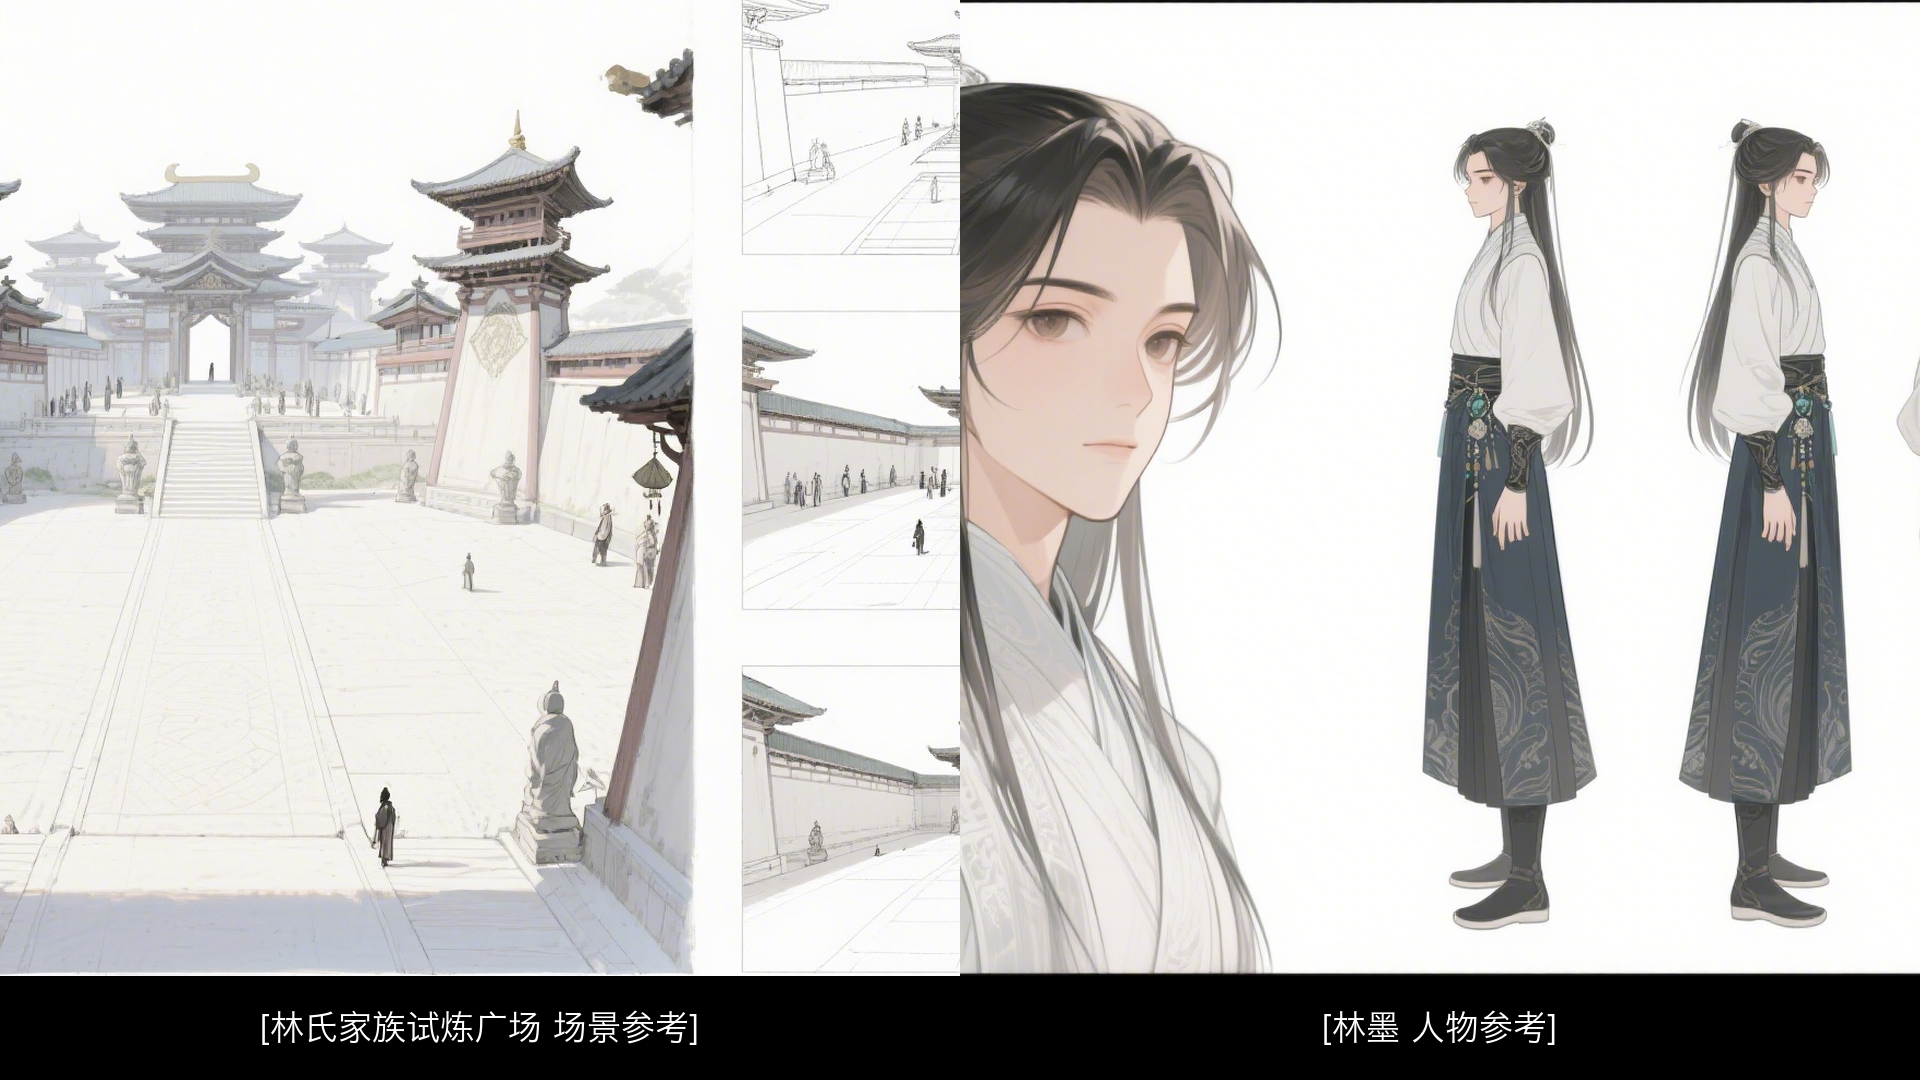
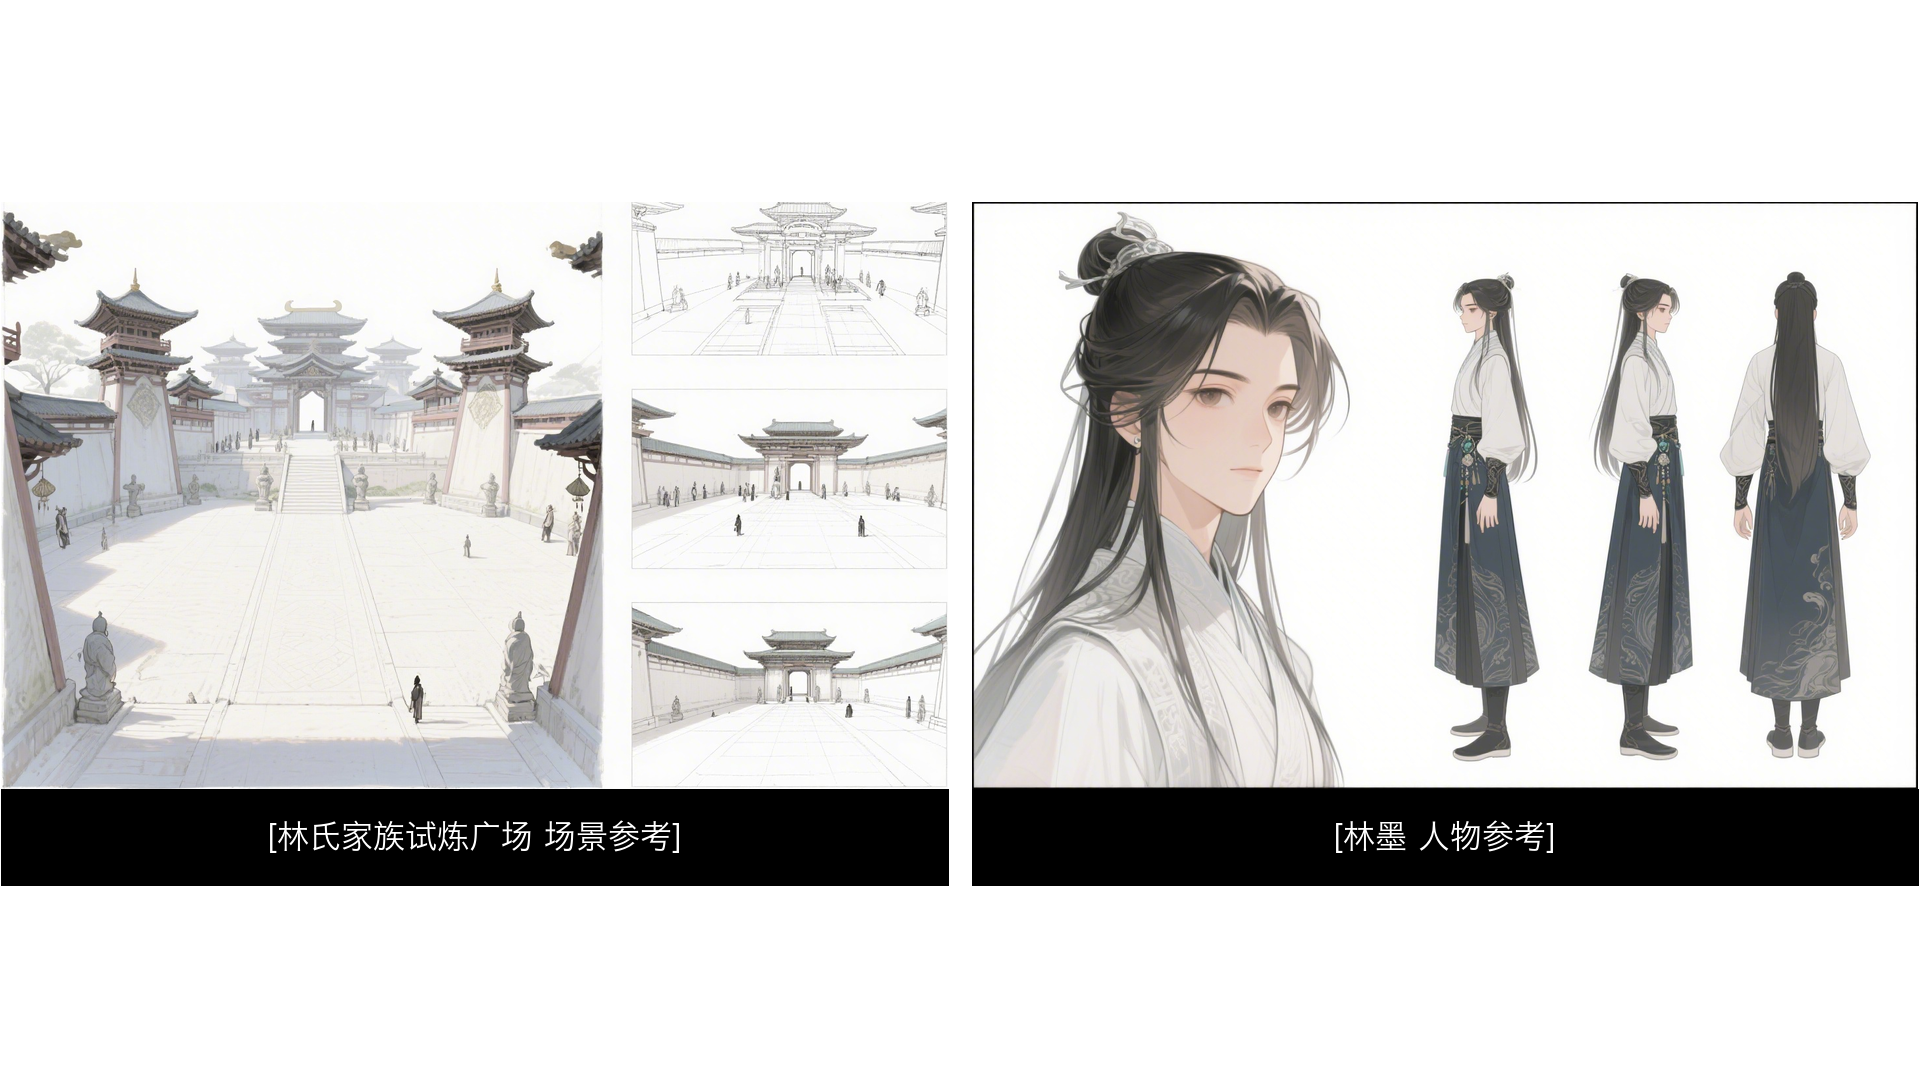
解决：出现 一个 拼接图不留空白 但是被遮挡

diff --git a/pipeline/shot_reference_boards.py b/pipeline/shot_reference_boards.py
@@ -19,7 +19,7 @@ OUTER_PADDING_PX = 0
 GUTTER_PX = 0
 BACKGROUND_COLOR = "#FFFFFF"
 BLANK_CELL_FILL = "#FFFFFF"
-FIT_MODE = "cover"
+FIT_MODE = "adaptive"
 LABEL_BAR_FILL = "#000000"
 LABEL_TEXT_FILL = "#FFFFFF"
 LABEL_BAR_HEIGHT_RATIO = 0.14
@@ -28,6 +28,7 @@ LABEL_BAR_MAX_HEIGHT_PX = 104
 LABEL_SIDE_PADDING_PX = 24
 LABEL_FONT_MIN_SIZE = 18
 LABEL_FONT_DIVISOR = 3
+DUAL_ASSET_GAP_PX = 24
 BORDER_ACTIVITY_STD_THRESHOLD = 14.0
 TRIM_BACKOFF_PX = 2
 MAX_VERTICAL_TRIM_RATIO = 0.12
@@ -130,6 +131,51 @@ def build_target_boxes(layout_template: str) -> list[dict[str, int]]:
                 }
             )
             slot_index += 1
+    return boxes
+
+
+def build_dual_asset_boxes(ordered_assets: list[dict[str, str]]) -> list[dict[str, int]]:
+    if len(ordered_assets) != 2:
+        raise ValueError(f"Dual-asset layout expects exactly 2 assets, got {len(ordered_assets)}")
+
+    label_height = resolve_label_height(CANVAS_HEIGHT)
+    max_image_height = max(1, CANVAS_HEIGHT - label_height)
+    aspects: list[float] = []
+    for asset in ordered_assets:
+        trimmed_width, trimmed_height = load_trimmed_image(asset["source_image_path"]).size
+        aspects.append(trimmed_width / trimmed_height)
+
+    available_width = CANVAS_WIDTH - 2 * OUTER_PADDING_PX - DUAL_ASSET_GAP_PX
+    common_image_height = min(
+        max_image_height,
+        max(1, int(available_width / sum(aspects))),
+    )
+    widths = [max(1, int(round(aspect * common_image_height))) for aspect in aspects]
+    row_width = sum(widths) + DUAL_ASSET_GAP_PX
+    if row_width > CANVAS_WIDTH:
+        overflow = row_width - CANVAS_WIDTH
+        widths[-1] = max(1, widths[-1] - overflow)
+        row_width = sum(widths) + DUAL_ASSET_GAP_PX
+
+    box_height = common_image_height + label_height
+    start_x = max(0, (CANVAS_WIDTH - row_width) // 2)
+    start_y = max(0, (CANVAS_HEIGHT - box_height) // 2)
+
+    boxes: list[dict[str, int]] = []
+    current_x = start_x
+    for index, width in enumerate(widths, start=1):
+        boxes.append(
+            {
+                "slot_index": index,
+                "row": 1,
+                "col": index,
+                "x": current_x,
+                "y": start_y,
+                "width": width,
+                "height": box_height,
+            }
+        )
+        current_x += width + DUAL_ASSET_GAP_PX
     return boxes
 
 
@@ -275,6 +321,10 @@ def trim_uniform_border(image: Image.Image) -> Image.Image:
     return image.crop((crop_left, crop_top, crop_right, crop_bottom))
 
 
+def load_trimmed_image(source_image_path: str | Path) -> Image.Image:
+    return trim_uniform_border(Image.open(Path(source_image_path)).convert("RGB"))
+
+
 def resize_cover(image: Image.Image, target_width: int, target_height: int) -> Image.Image:
     scale = max(target_width / image.width, target_height / image.height)
     resized_width = max(1, int(round(image.width * scale)))
@@ -288,11 +338,22 @@ def resize_cover(image: Image.Image, target_width: int, target_height: int) -> I
     return resized.crop((crop_left, crop_top, crop_right, crop_bottom))
 
 
-def split_slot_box(box: dict[str, int]) -> tuple[dict[str, int], dict[str, int]]:
-    label_height = max(
+def resize_contain(image: Image.Image, target_width: int, target_height: int) -> Image.Image:
+    scale = min(target_width / image.width, target_height / image.height)
+    resized_width = max(1, int(round(image.width * scale)))
+    resized_height = max(1, int(round(image.height * scale)))
+    return image.resize((resized_width, resized_height), Image.Resampling.LANCZOS)
+
+
+def resolve_label_height(box_height: int) -> int:
+    return max(
         LABEL_BAR_MIN_HEIGHT_PX,
-        min(LABEL_BAR_MAX_HEIGHT_PX, int(box["height"] * LABEL_BAR_HEIGHT_RATIO)),
+        min(LABEL_BAR_MAX_HEIGHT_PX, int(box_height * LABEL_BAR_HEIGHT_RATIO)),
     )
+
+
+def split_slot_box(box: dict[str, int]) -> tuple[dict[str, int], dict[str, int]]:
+    label_height = resolve_label_height(int(box["height"]))
     image_height = max(1, int(box["height"]) - label_height)
     image_box = {
         "x": int(box["x"]),
@@ -345,12 +406,18 @@ def render_board_image(slots: list[dict[str, object]], output_path: Path) -> Non
     font_path = resolve_label_font_path()
 
     for slot in slots:
-        source_image_path = Path(str(slot["source_image_path"]))
-        image = trim_uniform_border(Image.open(source_image_path).convert("RGB"))
+        image = load_trimmed_image(str(slot["source_image_path"]))
         box = slot["target_box"]
         image_box, label_box = split_slot_box(box)
-        resized = resize_cover(image, image_box["width"], image_box["height"])
-        canvas.paste(resized, (image_box["x"], image_box["y"]))
+        fit_mode = str(slot.get("fit_mode", "cover"))
+        if fit_mode == "contain":
+            resized = resize_contain(image, image_box["width"], image_box["height"])
+            paste_x = image_box["x"] + (image_box["width"] - resized.width) // 2
+            paste_y = image_box["y"] + (image_box["height"] - resized.height)
+            canvas.paste(resized, (paste_x, paste_y))
+        else:
+            resized = resize_cover(image, image_box["width"], image_box["height"])
+            canvas.paste(resized, (image_box["x"], image_box["y"]))
         render_slot_label(
             draw=draw,
             font_path=font_path,
@@ -375,7 +442,11 @@ def generate_shot_reference_boards(*, storyboard_path: Path) -> ShotReferenceBoa
         ordered_assets = build_ordered_assets(shot, asset_image_map)
         asset_count = len(ordered_assets)
         layout_template = resolve_layout_template(asset_count)
-        target_boxes = build_target_boxes(layout_template)
+        target_boxes = (
+            build_dual_asset_boxes(ordered_assets)
+            if layout_template == "grid_2x1"
+            else build_target_boxes(layout_template)
+        )
         board_path = (artifacts.boards_dir / f"{shot.id}.png").resolve()
 
         render_slots_payload: list[dict[str, object]] = []
@@ -391,6 +462,7 @@ def generate_shot_reference_boards(*, storyboard_path: Path) -> ShotReferenceBoa
                     "asset_id": asset["asset_id"],
                     "source_image_path": asset["source_image_path"],
                     "label_text": asset["label_text"],
+                    "fit_mode": "contain" if layout_template == "grid_2x1" else "cover",
                     "target_box": {
                         "x": box["x"],
                         "y": box["y"],

diff --git a/pipeline/shot_videos.py b/pipeline/shot_videos.py
@@ -98,6 +98,37 @@ def build_task_content(prompt: str, first_frame_url: str) -> list[dict[str, obje
     ]
 
 
+def write_manifest_snapshot(
+    *,
+    artifacts: ShotVideoArtifacts,
+    video_jobs: VideoJobsManifest,
+    model_name: str,
+    resolution: str,
+    timeout_seconds: int,
+    poll_interval_seconds: int,
+    keep_remote_media: bool,
+    results_payload: list[dict[str, object]],
+) -> None:
+    if not results_payload:
+        return
+    manifest_payload = {
+        "schema_version": "1.0",
+        "source_run": artifacts.run_dir.name,
+        "source_script_name": video_jobs.source_script_name,
+        "title": video_jobs.title,
+        "video_model": model_name,
+        "execution_spec": {
+            "resolution": resolution,
+            "timeout_seconds": timeout_seconds,
+            "poll_interval_seconds": poll_interval_seconds,
+            "keep_remote_media": keep_remote_media,
+        },
+        "results": results_payload,
+    }
+    manifest = ShotVideosManifest.model_validate(manifest_payload)
+    write_json(artifacts.output_dir / "shot_videos_manifest.json", manifest.model_dump(mode="json"))
+
+
 def generate_shot_videos(
     *,
     video_jobs_path: Path,
@@ -148,6 +179,16 @@ def generate_shot_videos(
                 results_payload.append(existing_results_by_shot[job.shot_id])
             else:
                 results_payload.append({**base_result, "status": "skipped_not_selected"})
+            write_manifest_snapshot(
+                artifacts=artifacts,
+                video_jobs=video_jobs,
+                model_name=model_config.model_name,
+                resolution=resolution,
+                timeout_seconds=timeout_seconds,
+                poll_interval_seconds=poll_interval_seconds,
+                keep_remote_media=keep_remote_media,
+                results_payload=results_payload,
+            )
             continue
         if job.status != "ready":
             if job.shot_id in existing_results_by_shot:
@@ -160,6 +201,16 @@ def generate_shot_videos(
                         "error_message": f"video job status is {job.status}",
                     }
                 )
+            write_manifest_snapshot(
+                artifacts=artifacts,
+                video_jobs=video_jobs,
+                model_name=model_config.model_name,
+                resolution=resolution,
+                timeout_seconds=timeout_seconds,
+                poll_interval_seconds=poll_interval_seconds,
+                keep_remote_media=keep_remote_media,
+                results_payload=results_payload,
+            )
             continue
 
         request_payload = {
@@ -230,22 +281,15 @@ def generate_shot_videos(
                 "error_message": error_message,
             }
         )
-
-    manifest_payload = {
-        "schema_version": "1.0",
-        "source_run": run_dir.name,
-        "source_script_name": video_jobs.source_script_name,
-        "title": video_jobs.title,
-        "video_model": model_config.model_name,
-        "execution_spec": {
-            "resolution": resolution,
-            "timeout_seconds": timeout_seconds,
-            "poll_interval_seconds": poll_interval_seconds,
-            "keep_remote_media": keep_remote_media,
-        },
-        "results": results_payload,
-    }
-    manifest = ShotVideosManifest.model_validate(manifest_payload)
-    write_json(artifacts.output_dir / "shot_videos_manifest.json", manifest.model_dump(mode="json"))
+        write_manifest_snapshot(
+            artifacts=artifacts,
+            video_jobs=video_jobs,
+            model_name=model_config.model_name,
+            resolution=resolution,
+            timeout_seconds=timeout_seconds,
+            poll_interval_seconds=poll_interval_seconds,
+            keep_remote_media=keep_remote_media,
+            results_payload=results_payload,
+        )
 
     return artifacts

diff --git a/schemas/shot_reference_manifest.py b/schemas/shot_reference_manifest.py
@@ -33,7 +33,7 @@ class BoardDefaults(StrictModel):
     background_color: str
     outer_padding_px: int = Field(ge=0)
     gutter_px: int = Field(ge=0)
-    fit_mode: Literal["contain", "cover"]
+    fit_mode: Literal["contain", "cover", "adaptive"]
     preserve_asset_labels: bool
     add_overlay_text: bool
     blank_cell_fill: str

diff --git a/memory-bank/progress.md b/memory-bank/progress.md
@@ -313,15 +313,23 @@ The project now has:
   - `07_shot_reference_boards/boards/*.png` now use zero outer padding and zero gutter
   - occupied cells now fill their quarter/half-grid areas much more tightly than the previous `contain` layout
   - slot labels now use reserved bottom bands instead of overlaying the imagery, which removed the visible occlusion in `shot_012`
+  - `grid_2x1` boards now use a separate adaptive layout path that preserves complete asset visibility before maximizing fill, so two-asset shots no longer crop wide reference sheets just to fill half-screen boxes
   - `08_video_jobs/video_jobs.json` still validates afterward and remains blocked only by missing public `board_public_url` values
 - `run12` has now also been republished into the repo-local `static/` tree with jsDelivr URL placeholders:
   - `runs/run12/07_shot_reference_boards/board_publish_result.json` points at `https://cdn.jsdelivr.net/gh/tg929/AI-studio@main/static/runs/run12/...`
   - `runs/run12/08_video_jobs/video_jobs.json` now marks all 12 jobs as `ready`
   - the copied board PNGs exist under `static/runs/run12/07_shot_reference_boards/boards/`
-- A real `09_shot_videos` smoke test was attempted for `run12/shot_001`:
-  - the video task creation failed immediately with `ArkBadRequestError`
-  - backend message: `content[1].image_url` is invalid because the resource was not found
-  - current blocker is no longer local pipeline assembly; it is that `static/runs/run12/...` has not been committed and pushed to GitHub yet, so jsDelivr cannot serve those new board files
+- `run12` was then pushed to `origin/main`, and the published board URLs were verified live:
+  - both `raw.githubusercontent.com` and jsDelivr returned `200` for `static/runs/run12/.../shot_001.png`
+  - the public first-frame URL problem is resolved for this run
+- A real full `09_shot_videos` execution was then attempted for `run12`:
+  - `shot_001` through `shot_008` succeeded and local mp4 files now exist under `runs/run12/09_shot_videos/videos/`
+  - task creation for `shot_009` failed with `AccountOverdueError`
+  - `shot_010` through `shot_012` were not submitted after that external billing failure
+  - `runs/run12/09_shot_videos/shot_videos_manifest.json` was reconstructed to preserve the current 8-success / 4-failed state
+- `pipeline/shot_videos.py` was updated for better resumability:
+  - it now writes `shot_videos_manifest.json` incrementally after each accumulated result
+  - future long runs will keep partial progress even if a later external API error interrupts the command
 - Current locked storyboard/video-prep decisions:
   - the later shot board is the video model `first_frame`
   - `storyboard.json` is a structured shot-planning contract, not the final video prompt

diff --git a/memory-bank/architecture.md b/memory-bank/architecture.md
@@ -221,6 +221,7 @@ Current role:
 - Selects the shot's scene asset plus visible character/prop assets in deterministic order
 - Chooses a fixed grid template from asset count
 - Trims uniform outer borders from raw asset reference images before placement
+- Uses an adaptive two-asset layout for `grid_2x1` boards so differing aspect ratios are shown completely before any attempt to maximize fill
 - Uses edge-to-edge grid cells plus cover-fit composition so each occupied slot fills its assigned area
 - Reserves a dedicated bottom label area per occupied slot so labels do not occlude the rendered reference imagery
 - Renders a consistent local black label bar from clean text instead of reusing the padded labeled-card bitmap directly
@@ -253,7 +254,8 @@ Current role:
 - Loads and validates `video_jobs.json`
 - Builds the video-task payload using one shot prompt plus one `first_frame` image URL
 - Submits content-generation tasks to the video model
-- Polls task status, downloads succeeded video files, and writes `shot_videos_manifest.json`
+- Polls task status and downloads succeeded video files
+- Persists `shot_videos_manifest.json` incrementally as results accumulate so partial progress survives long-running interruptions
 
 ### `pipeline/final_video.py`
 
